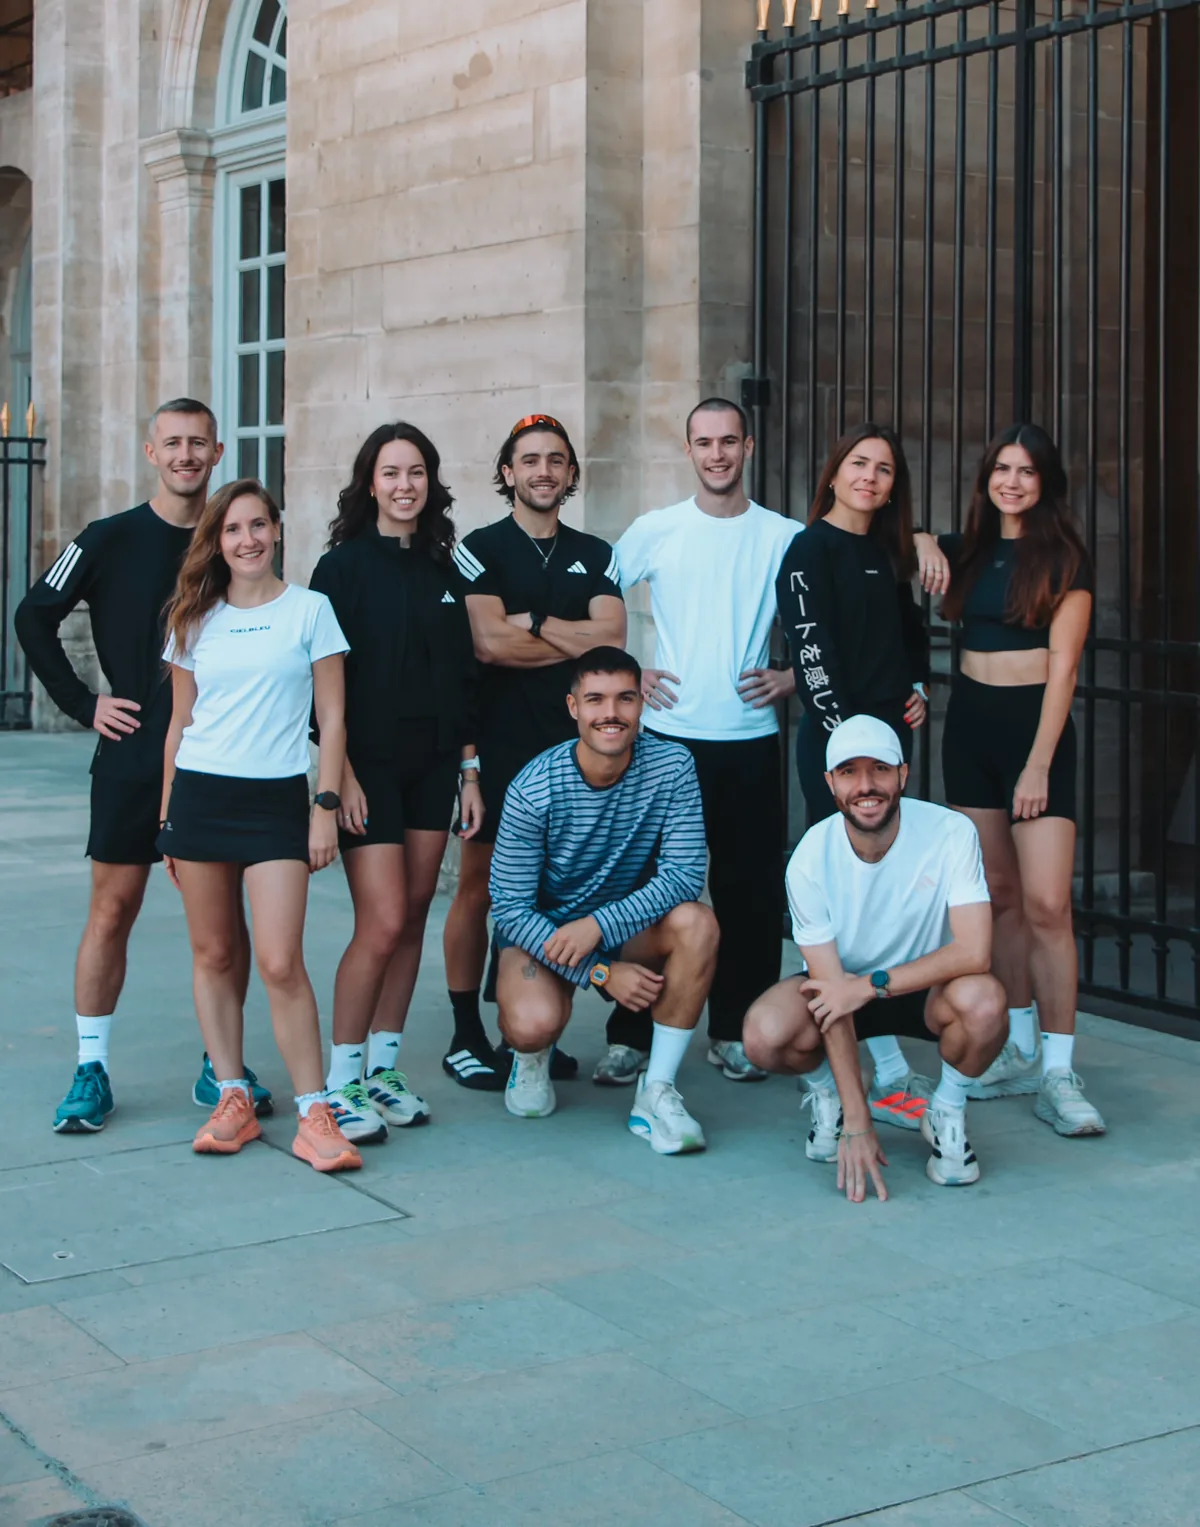
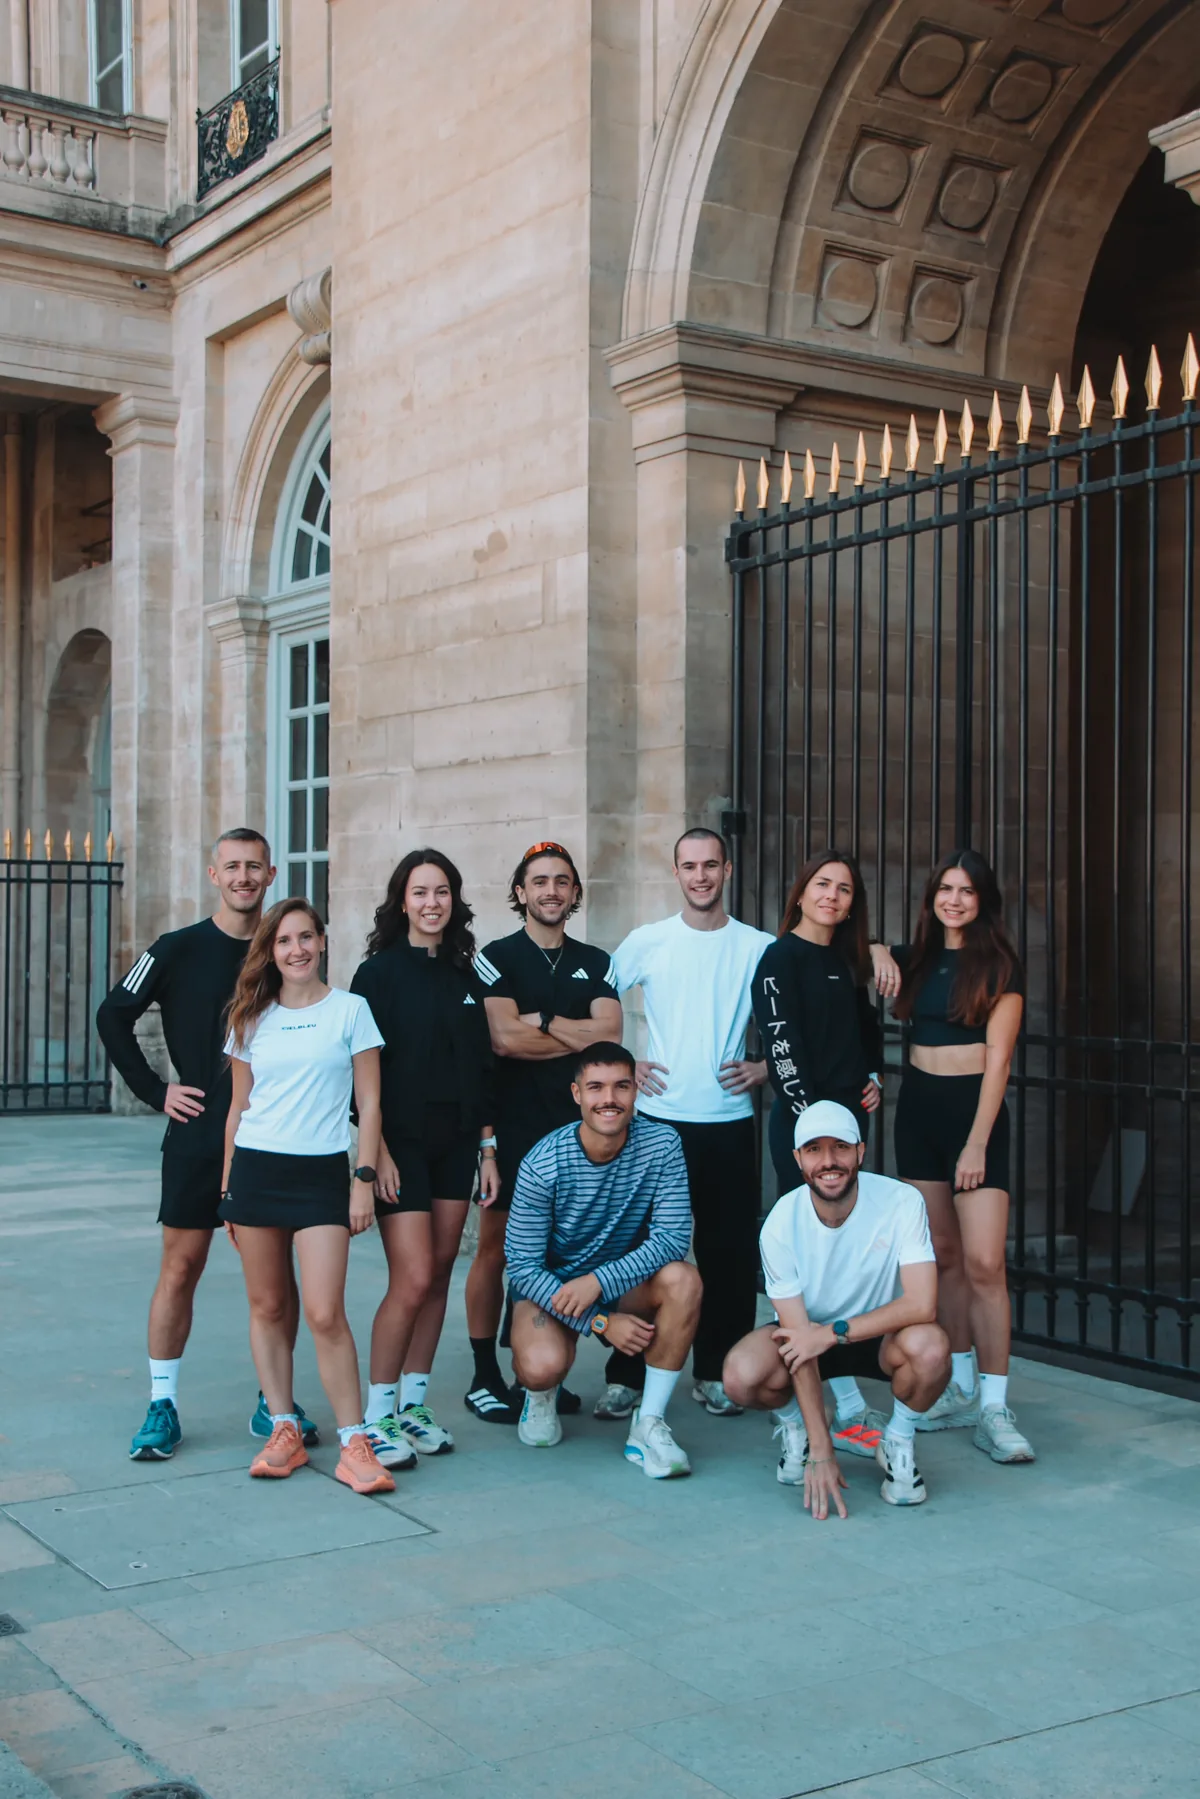
Page équipe mobile : couverture plein écran comme les autres pages, texte en haut, groupe en dessous

diff --git a/notre-equipe.html b/notre-equipe.html
@@ -86,8 +86,7 @@ nav{position:fixed;top:0;left:0;right:0;z-index:100;display:flex;align-items:cen
 .page-hero-bg-img{position:absolute;inset:0;width:100%;height:100%;object-fit:cover;object-position:center 30%;opacity:.85;pointer-events:none;z-index:0;}
 .page-hero > *:not(.page-hero-bg-img):not(picture){position:relative;z-index:2;}
 .page-hero .page-hero-bg-img{object-position:center 68%;}
-/* Téléphone : la photo de groupe reste entière, calée en haut, et se fond dans le bleu en bas */
-@media(max-width:768px){.page-hero .page-hero-bg-img{inset:0 0 auto 0;height:auto;object-fit:contain;object-position:center top;-webkit-mask-image:linear-gradient(180deg,#000 60%,transparent 95%);mask-image:linear-gradient(180deg,#000 60%,transparent 95%);}}
+@media(max-width:768px){.page-hero .page-hero-bg-img{object-fit:cover;object-position:center top;}}
 @media(max-width:768px){.page-hero::before{background:linear-gradient(180deg,rgba(11,29,48,.5) 0%,rgba(11,29,48,.28) 32%,rgba(11,29,48,.55) 70%,rgba(11,29,48,.9) 100%),linear-gradient(90deg,rgba(11,29,48,.85) 0%,rgba(11,29,48,.5) 48%,rgba(11,29,48,.18) 100%);}.page-hero-bg-img{opacity:.9;object-position:center 32%;}}
 .page-hero-eyebrow{font-family:'Bebas Neue',sans-serif;font-size:22px;letter-spacing:5px;color:var(--blue-sky);opacity:.8;margin-bottom:14px;position:relative;z-index:1;}
 .page-hero h1{font-family:'Bebas Neue',sans-serif;font-size:clamp(44px,7.6vw,92px);line-height:1;letter-spacing:.5px;color:white;position:relative;z-index:1;}
@@ -191,8 +190,7 @@ footer{background:var(--navy-deep);padding:40px 60px;}
   .nav-links,.nav-cta,.nav-cta-group{display:none;}
   .nav-hamburger{display:flex;align-items:center;}
   
-  /* Téléphone : le haut de la page s'arrête juste après le texte (plus de grand vide bleu) */
-  .page-hero{padding:calc(100vw * .84) 20px 56px;min-height:auto;justify-content:flex-start;}
+  .page-hero{padding:110px 20px 56px;min-height:100vh;min-height:100svh;justify-content:flex-start;}  /* texte en haut sur le mur, le groupe en dessous */
   section{padding:40px 20px;scroll-margin-top:70px;}
   .orga-grid{display:grid!important;justify-content:start;grid-template-columns:none!important;grid-auto-flow:column;grid-template-rows:repeat(2,1fr);grid-auto-columns:44%;overflow-x:auto;scroll-snap-type:x mandatory;gap:12px;padding-bottom:12px;scrollbar-width:none;-ms-overflow-style:none;}
   .orga-grid::-webkit-scrollbar{display:none;}
@@ -241,7 +239,7 @@ footer{background:var(--navy-deep);padding:40px 60px;}
 <!-- HERO -->
 <header class="page-hero">
   <picture>
-    <source media="(max-width:768px)" srcset="images/couvertures/equipe-mobile.webp?v=7">
+    <source media="(max-width:768px)" srcset="images/couvertures/equipe-mobile.webp?v=8">
     <img src="images/couvertures/equipe.webp?v=7" alt="" class="page-hero-bg-img" fetchpriority="high">
   </picture>
   <div class="page-hero-eyebrow">L'organisation · Saison 3</div>
